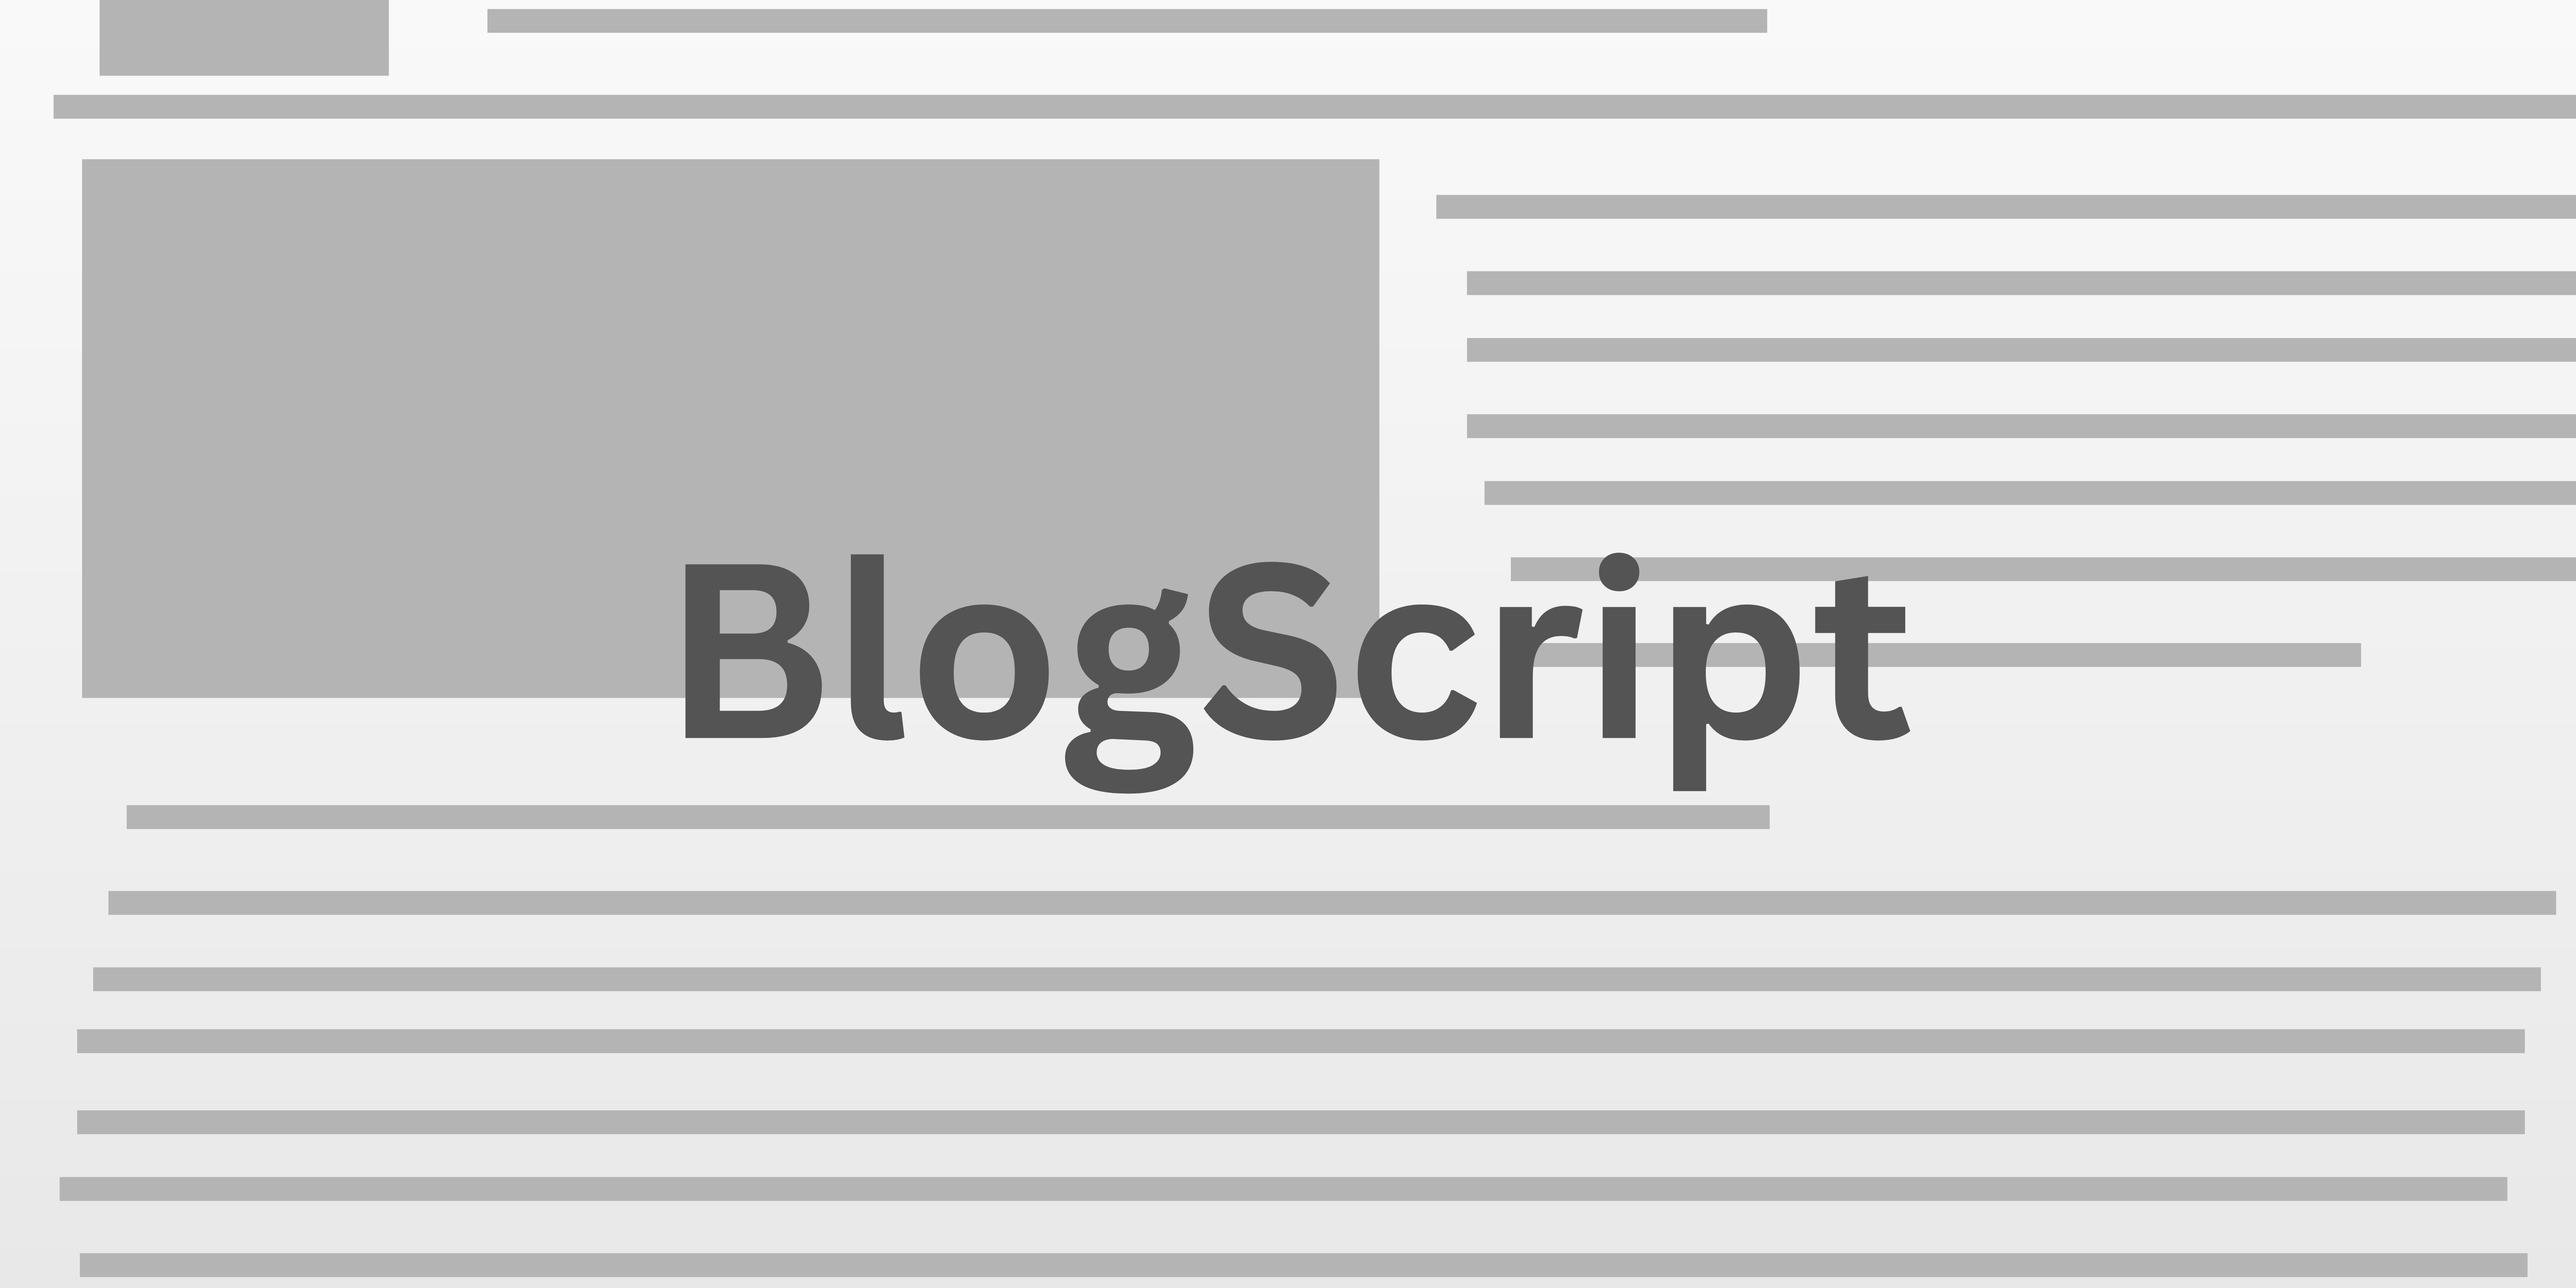
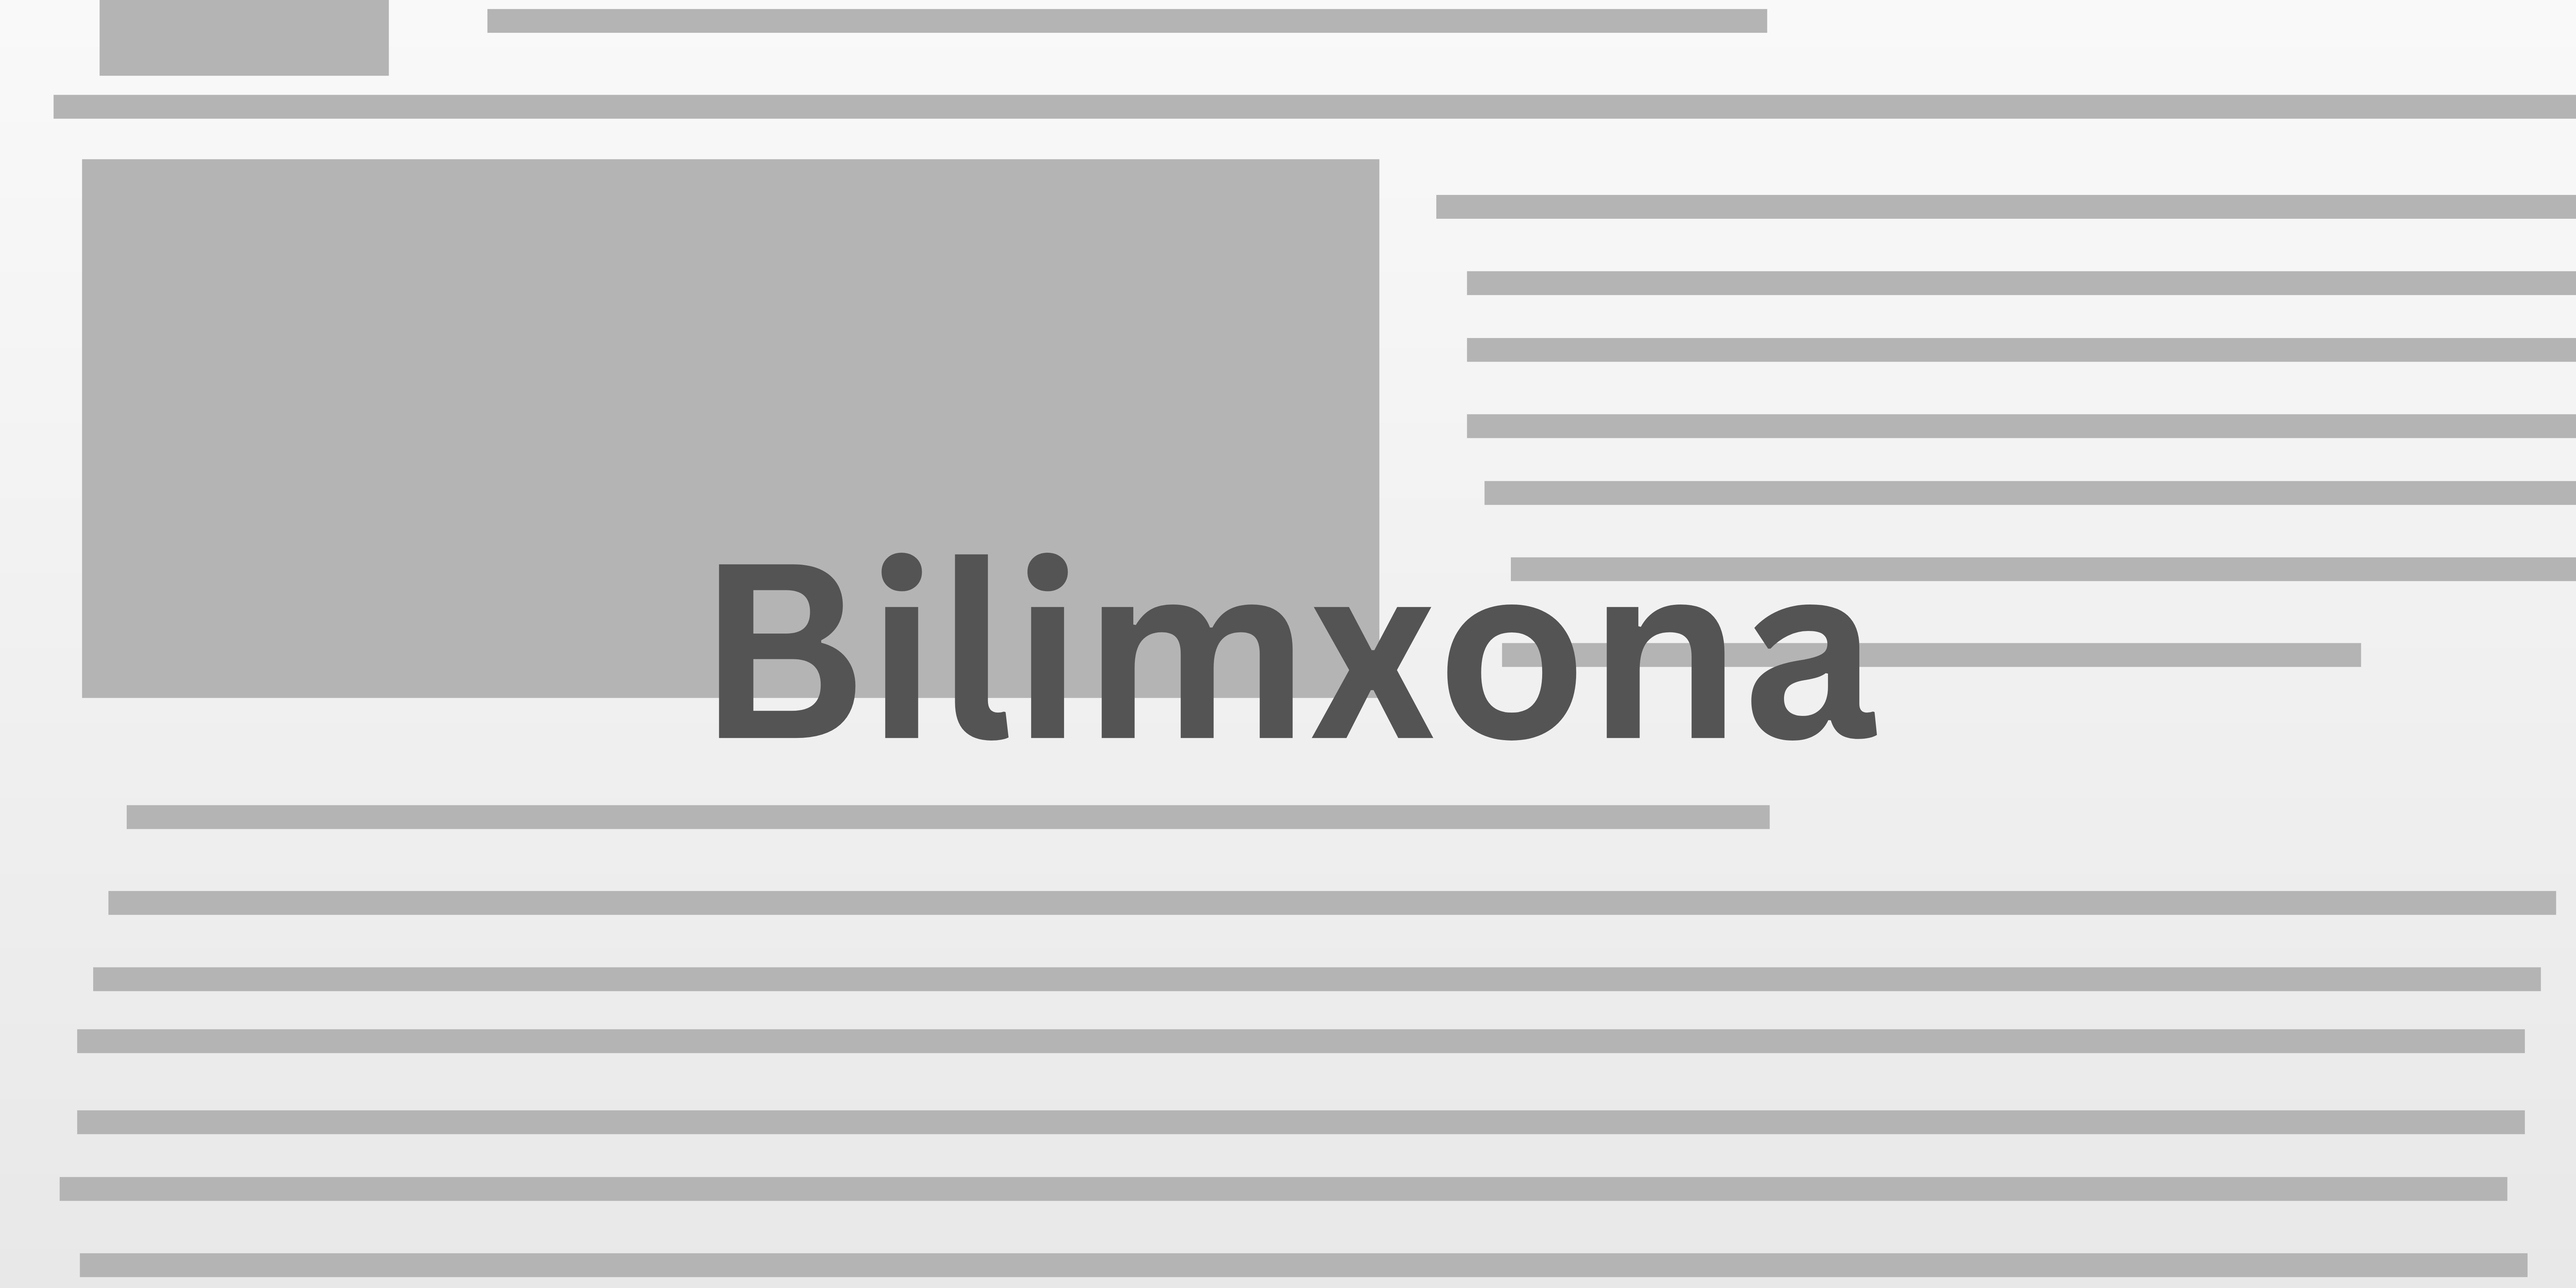
metadata added

Changed region(s): [[0.25, 0.4062, 0.75, 0.625]]

diff --git a/app/layout.tsx b/app/layout.tsx
@@ -26,6 +26,13 @@ export const metadata: Metadata = {
 		'uzbek tilida maqola',
 		'uzbek tilida maqolalar',
 		'wikipedia uzbek',
+		'Bilimxona',
+		'Samaradorlik',
+		'bilim',
+		'muvaqqayiyatga erishish',
+		'natija',
+		'kitob',
+		'kitoblar',
 	],
 	applicationName: 'Bilimxona',
 	generator: 'Next.js',
@@ -37,7 +44,7 @@ export const metadata: Metadata = {
 		siteName: 'Bilimxona',
 		images: [
 			{
-				url: '/Bilimxona.png',
+				url: '/Blogscript.png',
 				width: 800,
 				height: 600,
 				alt: 'Bilimxona',
@@ -52,7 +59,7 @@ export const metadata: Metadata = {
 		title: 'Bilimxona',
 		description:
 			"Otabek Abdiraimov tomonidan yozilgan maqolalarni o'rganing: samaradorlik, dasturlash, moliyaviy savodxonlik, matematika, fizika va boshqalar.",
-		images: '/Bilimxona.png',
+		images: '/Blogscript.png',
 	},
 }
 

diff --git a/app/blog/[slug]/page.tsx b/app/blog/[slug]/page.tsx
@@ -1,5 +1,6 @@
 import { blogCard, fullBlog } from '@/lib/interface'
 import { client, urlFor } from '@/lib/sanity'
+import { Metadata } from 'next'
 import { PortableText } from 'next-sanity'
 import Image from 'next/image'
 
@@ -20,6 +21,16 @@ async function getData(slug: string) {
 	return data
 }
 
+export async function generateMetadata({
+	params: { slug },
+}: {
+	params: { slug: string }
+}): Promise<Metadata> {
+	const data = await getData(slug)
+	return {
+		title: data.title,
+	}
+}
 export default async function SingleBlogPage({
 	params,
 }: {
